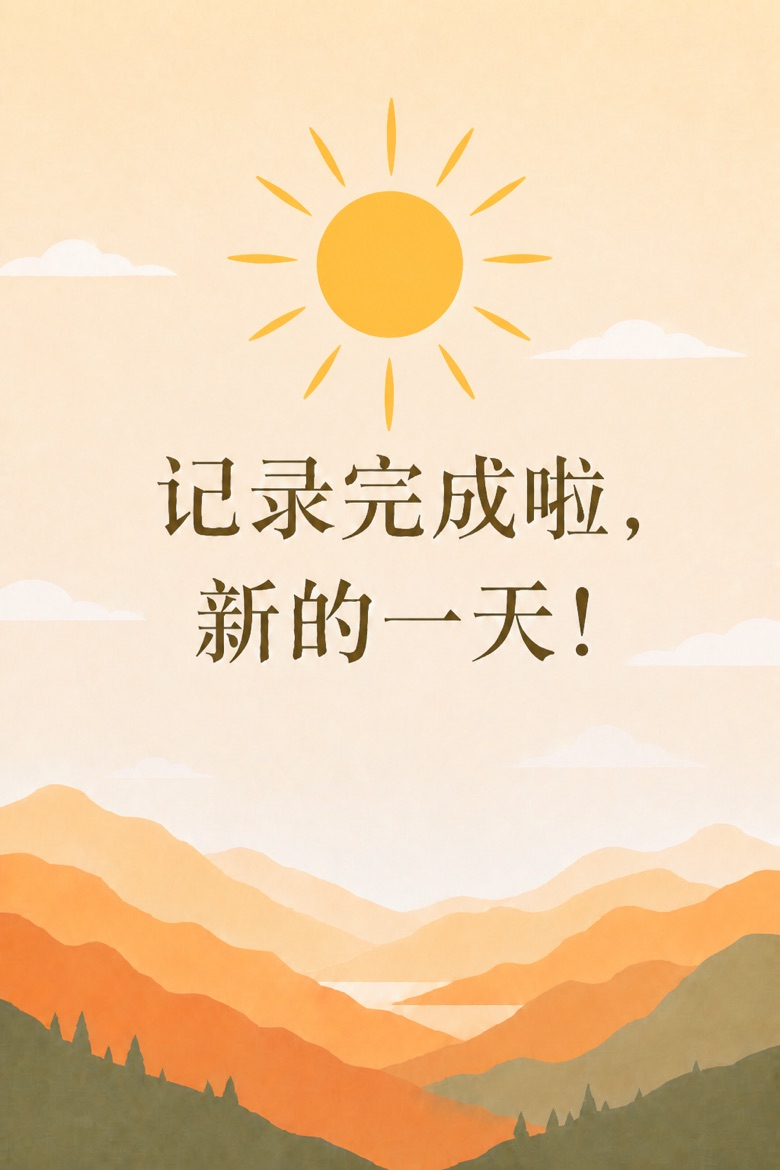
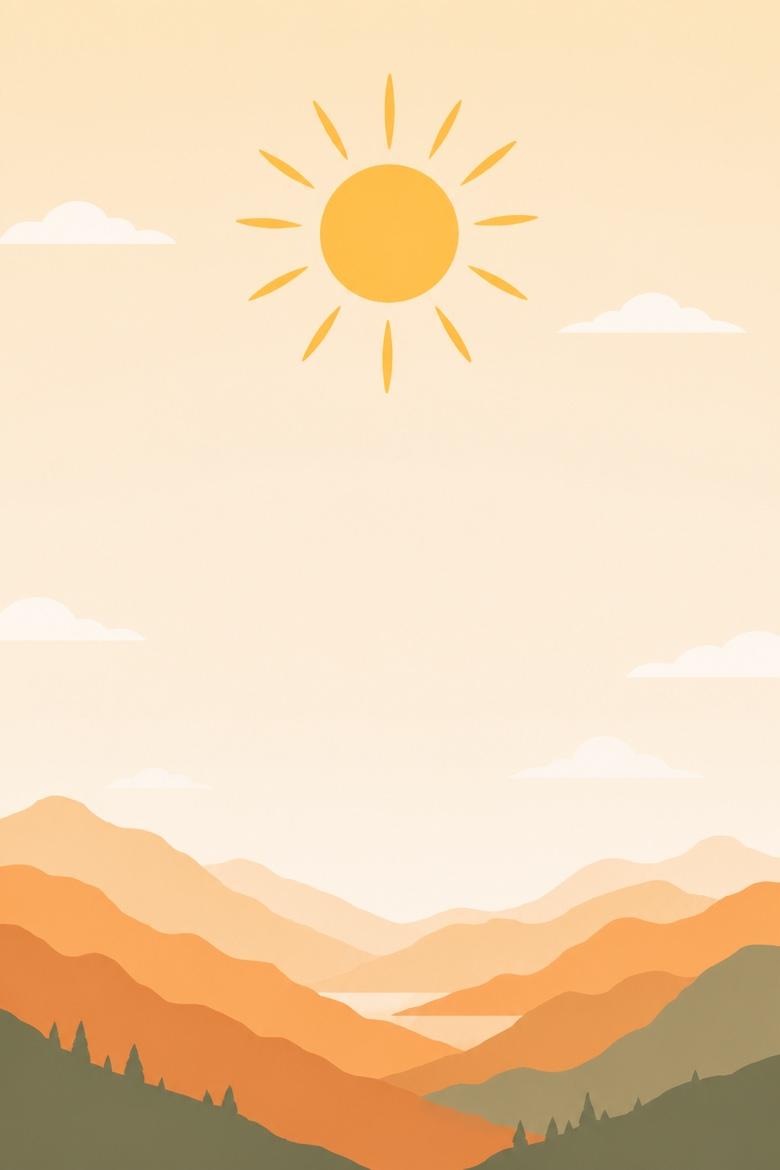
Fix complete flow: re-save, smaller title, drop bye button, auto-complete.

diff --git a/app.js b/app.js
@@ -26,6 +26,10 @@
   let formNightId = null;
   /** @type {string | null} selected week monday key for report */
   let reportWeekKey = null;
+  /** After「我要修改」, stay on form until next save or time-window change */
+  let editingAfterComplete = false;
+  /** @type {string | null} */
+  let lastWindowKey = null;
 
   const CLOCK_KEY = "sleepmonitor_clock";
   const DEBUG_KEY = "sleepmonitor_debug";
@@ -664,6 +668,10 @@
   // ---------- views ----------
 
   function setView(name) {
+    if (name === "report") {
+      // Leaving 记录 cancels in-progress edit; coming back can auto-show complete
+      editingAfterComplete = false;
+    }
     hideComplete();
     currentView = name;
     document.querySelectorAll(".tab").forEach((btn) => {
@@ -709,10 +717,15 @@
 
   function showComplete(kind) {
     if (!elComplete) return;
+    elComplete.classList.remove("is-night", "is-day");
+    elComplete.classList.add(kind === "aset" ? "is-night" : "is-day");
+    const line2 = document.getElementById("complete-line2");
+    if (line2) {
+      line2.textContent = kind === "aset" ? "睡个好觉！" : "新的一天！";
+    }
     elComplete.hidden = false;
-    elComplete.classList.toggle("is-night", kind === "aset");
-    elComplete.classList.toggle("is-day", kind === "bset");
     document.body.classList.add("complete-open");
+    editingAfterComplete = false;
     applyTheme();
   }
 
@@ -724,14 +737,38 @@
     applyTheme();
   }
 
-  function tryCloseApp() {
-    // Home-screen / standalone often ignores window.close()
-    window.close();
-    setTimeout(() => {
-      if (!document.hidden) {
-        toast("可以上滑或切回主屏幕离开啦");
-      }
-    }, 280);
+  function currentWindowKey(t = now()) {
+    const d = resolveDefaultForm(t);
+    return `${d.mode}:${d.nightKey}`;
+  }
+
+  function syncWindowEditFlag(t = now()) {
+    const key = currentWindowKey(t);
+    if (lastWindowKey && lastWindowKey !== key) {
+      editingAfterComplete = false;
+    }
+    lastWindowKey = key;
+  }
+
+  /** If current time-window side already filled, open completion until next window */
+  function maybeAutoShowComplete(t = now()) {
+    if (!currentUser || currentView !== "log") return false;
+    syncWindowEditFlag(t);
+    if (editingAfterComplete) return false;
+
+    const d = resolveDefaultForm(t);
+    formMode = d.mode;
+    formNightId = d.nightKey;
+    const night = getNight(d.nightKey);
+    if (d.mode === "aset" && night?.aset) {
+      showComplete("aset");
+      return true;
+    }
+    if (d.mode === "bset" && night?.bset) {
+      showComplete("bset");
+      return true;
+    }
+    return false;
   }
 
   function render() {
@@ -741,8 +778,13 @@
     applyTheme();
     updateContext(t);
     mountDebugPanel();
-    if (currentView === "log") renderLog(t);
-    else renderReport(t);
+    if (currentView === "log") {
+      if (maybeAutoShowComplete(t)) return;
+      renderLog(t);
+    } else {
+      hideComplete();
+      renderReport(t);
+    }
   }
 
   function renderLog(now) {
@@ -1080,7 +1122,7 @@
     }
     syncConditional();
 
-    root.querySelector("#btn-save-aset").addEventListener("click", () => {
+    root.querySelector("#btn-save-aset").onclick = () => {
       const errors = [];
       if (exercised == null) errors.push("请选择白天是否运动");
       if (napped == null) errors.push("请选择白天是否睡觉");
@@ -1121,7 +1163,7 @@
       night.aset = payload;
       saveDb();
       showComplete("aset");
-    });
+    };
   }
 
   function bindBsetForm(existing) {
@@ -1190,7 +1232,28 @@
     }
     syncWaking();
 
-    root.querySelector("#btn-save-bset").addEventListener("click", () => {
+    function saveBset() {
+      const wakeTime = root.querySelector("#wakeTime").value;
+      const payload = {
+        wakeTime,
+        sleepEase: state.sleepEase,
+        nightWaking: state.nightWaking,
+        wakeReasons: state.nightWaking ? [...state.wakeReasons] : [],
+        otherReason:
+          state.nightWaking && state.wakeReasons.has("其他")
+            ? root.querySelector("#otherReason").value.trim()
+            : "",
+        reSleepEase: state.nightWaking ? state.reSleepEase : null,
+        sleepScore: state.sleepScore,
+        updatedAt: now().toISOString(),
+      };
+      const night = ensureNight(formNightId);
+      night.bset = payload;
+      saveDb();
+      showComplete("bset");
+    }
+
+    root.querySelector("#btn-save-bset").onclick = () => {
       const errors = [];
       const soft = [];
       const wakeTime = root.querySelector("#wakeTime").value;
@@ -1210,45 +1273,27 @@
         const pair = bedWakeDates(formNightId, aset.bedtime, wakeTime);
         if (pair) {
           const h = hoursBetween(pair.bed, pair.wake);
-          if (h < 3 || h > 14) soft.push(`在床约 ${formatHours(h)}，确认无误再保存？`);
+          if (h < 3 || h > 14) soft.push(`在床约 ${formatHours(h)}，已按你的填写保存`);
         }
       }
 
       const errBox = root.querySelector("#form-errors");
       errBox.innerHTML = errors.map((e) => `<div>${e}</div>`).join("");
       const softBox = root.querySelector("#soft-warn");
-      if (soft.length && !errors.length) {
-        softBox.hidden = false;
-        softBox.innerHTML =
-          soft.join("<br/>") +
-          `<div style="margin-top:8px"><button type="button" class="btn btn-primary" id="btn-force-save">仍要保存</button></div>`;
-        softBox.querySelector("#btn-force-save").onclick = () => saveBset(true);
+      if (errors.length) {
+        softBox.hidden = true;
         return;
       }
-      softBox.hidden = true;
-      if (errors.length) return;
-      saveBset(false);
-
-      function saveBset() {
-        const payload = {
-          wakeTime,
-          sleepEase: state.sleepEase,
-          nightWaking: state.nightWaking,
-          wakeReasons: state.nightWaking ? [...state.wakeReasons] : [],
-          otherReason:
-            state.nightWaking && state.wakeReasons.has("其他")
-              ? root.querySelector("#otherReason").value.trim()
-              : "",
-          reSleepEase: state.nightWaking ? state.reSleepEase : null,
-          sleepScore: state.sleepScore,
-          updatedAt: now().toISOString(),
-        };
-        const night = ensureNight(formNightId);
-        night.bset = payload;
-        saveDb();
-        showComplete("bset");
+      // Soft notes no longer block completion — always save then show complete
+      if (soft.length) {
+        softBox.hidden = false;
+        softBox.textContent = soft.join(" ");
+      } else {
+        softBox.hidden = true;
+        softBox.textContent = "";
       }
-    });
+      saveBset();
+    };
   }
 
   // ---------- report UI ----------
@@ -1418,6 +1463,7 @@
   });
 
   document.getElementById("btn-complete-edit")?.addEventListener("click", () => {
+    editingAfterComplete = true;
     hideComplete();
     currentView = "log";
     document.querySelectorAll(".tab").forEach((btn) => {
@@ -1425,11 +1471,13 @@
     });
     elLog.hidden = false;
     elReport.hidden = true;
+    const d = resolveDefaultForm(now());
+    // Keep editing the side that was just shown as complete if still in window
+    if (!formNightId || !formMode) {
+      formMode = d.mode;
+      formNightId = d.nightKey;
+    }
     renderLog(now());
-  });
-
-  document.getElementById("btn-complete-bye")?.addEventListener("click", () => {
-    tryCloseApp();
   });
 
   document.querySelectorAll(".tab").forEach((btn) => {
@@ -1441,6 +1489,8 @@
     const d = resolveDefaultForm(now());
     formMode = d.mode;
     formNightId = d.nightKey;
+    // Re-entering 记录 tab: if already filled, auto complete (unless editing)
+    // setView already called render via tab handler order — ensure auto complete
   });
 
   const savedUser = getStoredUsername();
@@ -1451,6 +1501,12 @@
   }
 
   setInterval(() => {
-    if (currentUser) updateContext(now());
+    if (!currentUser) return;
+    const t = now();
+    updateContext(t);
+    syncWindowEditFlag(t);
+    if (currentView === "log" && !editingAfterComplete) {
+      maybeAutoShowComplete(t);
+    }
   }, 60_000);
 })();

diff --git a/styles.css b/styles.css
@@ -722,7 +722,7 @@ body:has(.debug-panel) #app {
   z-index: 70;
   display: flex;
   flex-direction: column;
-  justify-content: flex-end;
+  justify-content: space-between;
   background-color: #0b1220;
   background-size: cover;
   background-position: center;
@@ -743,9 +743,42 @@ body:has(.debug-panel) #app {
   background-color: #fff3d1;
 }
 
+.complete-copy {
+  flex: 1;
+  display: flex;
+  flex-direction: column;
+  align-items: center;
+  justify-content: center;
+  padding: 0 28px;
+  text-align: center;
+  pointer-events: none;
+}
+
+.complete-line1,
+.complete-line2 {
+  margin: 0;
+  font-family: var(--serif);
+  font-weight: 600;
+  font-size: clamp(1.35rem, 5.2vw, 1.75rem);
+  line-height: 1.45;
+  letter-spacing: 0.02em;
+}
+
+.complete-screen.is-night .complete-line1,
+.complete-screen.is-night .complete-line2 {
+  color: #f4f1e8;
+  text-shadow: 0 1px 10px rgba(0, 0, 0, 0.35);
+}
+
+.complete-screen.is-day .complete-line1,
+.complete-screen.is-day .complete-line2 {
+  color: #3d2e14;
+  text-shadow: 0 1px 8px rgba(255, 248, 230, 0.65);
+}
+
 .complete-actions {
   display: grid;
-  grid-template-columns: 1fr 1fr;
+  grid-template-columns: 1fr;
   gap: 12px;
   padding: 20px 20px calc(28px + var(--safe-bottom));
   background: linear-gradient(180deg, transparent 0%, rgba(0, 0, 0, 0.35) 40%, rgba(0, 0, 0, 0.55) 100%);
@@ -773,22 +806,6 @@ body:has(.debug-panel) #app {
 .complete-screen.is-day .complete-btn-edit {
   background: #fffaf0;
   border: 1px solid rgba(140, 100, 40, 0.22);
-  color: #3d2e14;
-}
-
-.complete-btn-bye {
-  background: var(--accent);
-  border-color: transparent;
-  color: var(--accent-ink);
-}
-
-.complete-screen.is-night .complete-btn-bye {
-  background: #6eb8a8;
-  color: #0f1715;
-}
-
-.complete-screen.is-day .complete-btn-bye {
-  background: #ffc933;
   color: #3d2e14;
 }
 

diff --git a/index.html b/index.html
@@ -48,9 +48,12 @@
   </div>
 
   <div id="complete-screen" class="complete-screen" hidden>
+    <div class="complete-copy">
+      <p class="complete-line1">记录完成啦，</p>
+      <p class="complete-line2" id="complete-line2">睡个好觉！</p>
+    </div>
     <div class="complete-actions">
       <button type="button" class="btn complete-btn complete-btn-edit" id="btn-complete-edit">我要修改</button>
-      <button type="button" class="btn complete-btn complete-btn-bye" id="btn-complete-bye">一会儿见</button>
     </div>
   </div>
 
